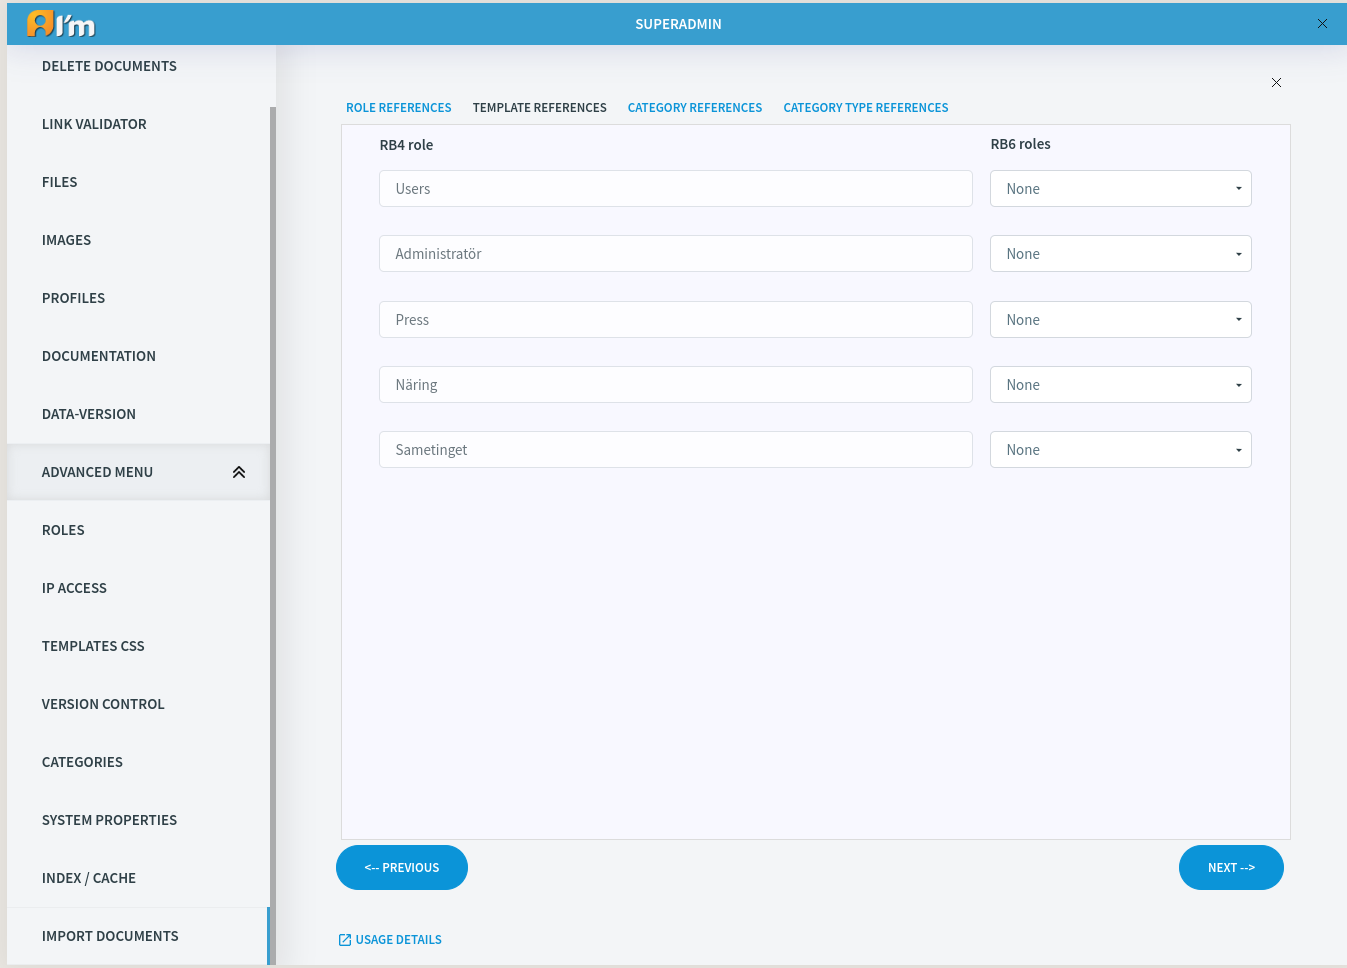
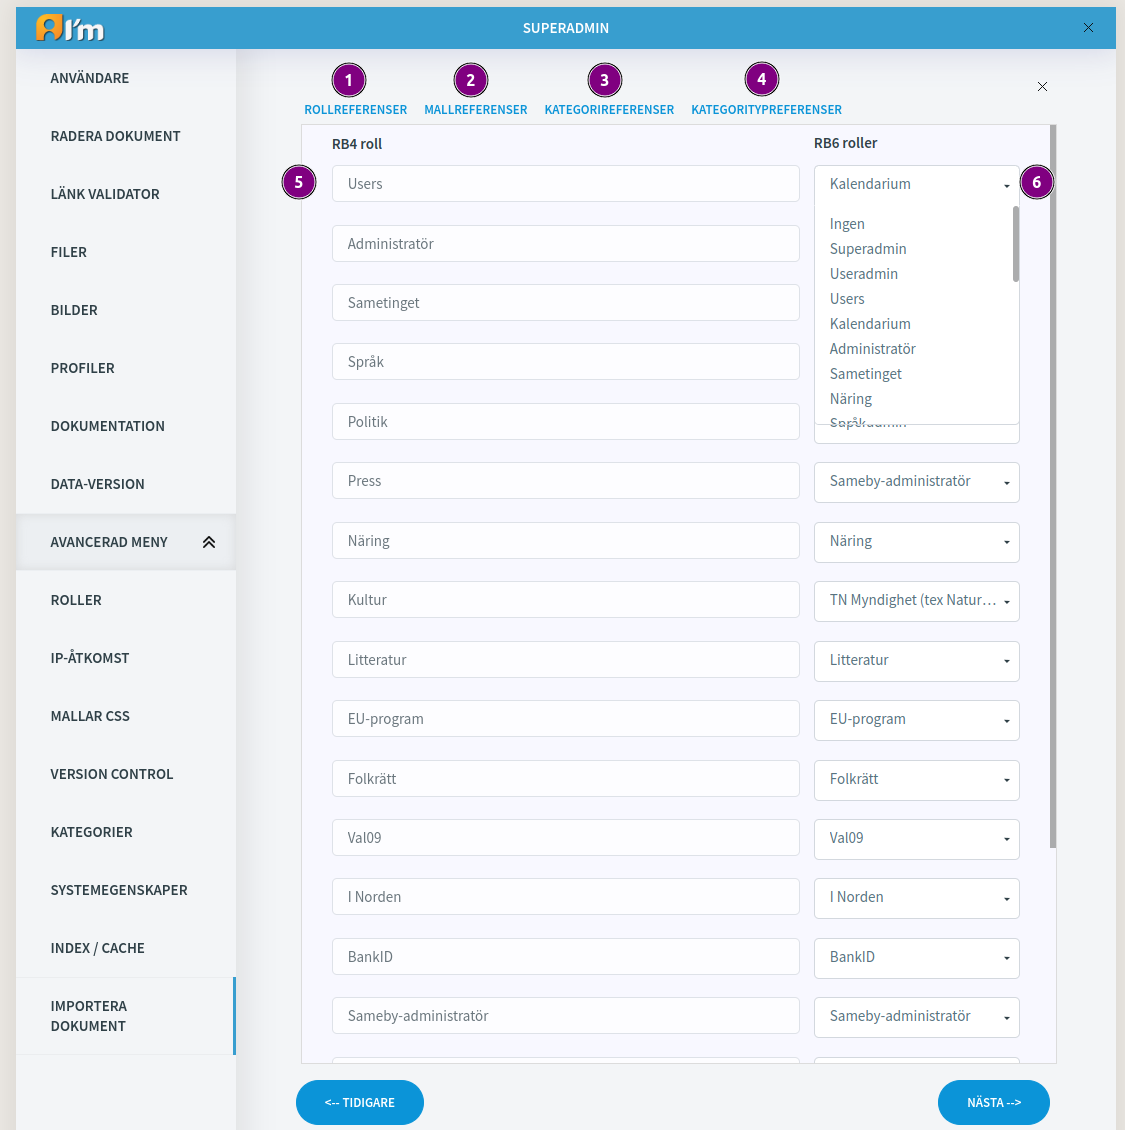
Issue IMCMS-730 Update documentation: - update docs for import/export feature

diff --git a/docs/user-documentation/admin-settings/import.rst b/docs/user-documentation/admin-settings/import.rst
@@ -37,22 +37,34 @@ Export Documents
 
 **3. Here specify range of documents(start id and last id). It is better to use small ranges because large ones will be longer to wait.**
 
-.. image:: _static/import/export-document-page.png
+.. image:: _static/import/range-input.png
+
+1 - *Change input type* - change the way you can list documents. Range or manually typed exact documents. 
+
+2 - *Range* - where you define start and end ids.
+
+3 - *List button* - press it and list documents withing the range.
+
+.. image:: _static/import/list-input.png
+
+1 - *Document id input* - write document id and press add button to add it. Also it supports pasting in space separated format(1001 1002 1003 ...) 
+
+2 - *Add button* - add documetn id to list from input.
+
+3 - *Remove button* - remove one or several selected document ids from list. (use ctrl to select several)
+
+4 - *List* - list with document ids.
 
 **4. Export documents manager overview.**
 
-.. image:: _static/import/export-doc-page-explanation-1.png
+.. image:: _static/import/overview.png
 
-.. image:: _static/import/export-doc-page-explanation-2.png
-
-1 - *Hoppa över exporterat( Skip exported)* – always turned on. When turned on skips already exported documents from export.
-
-2 - Each document can be included/excluded from export. Checked -> export.
+1 - Each document can be included/excluded from export. Checked -> export.
 This value saved in database so every user that has access to this page will see it.
 
 .. note:: Document will not be included in export if it is not published.
 
-3 - Indicates document export status:
+2 - Indicates document export status:
 
 - |successExport| - means document successfully exported.
 - |excludedExport| - means document has been excluded from export and was skipped during export.
@@ -60,9 +72,13 @@ This value saved in database so every user that has access to this page will see
 
 .. note:: If document failed to export so during the next export system will try to export it again if it is included in export.
 
-4 - Document status.
+3 - *Hoppa över exporterat(Skip exported) button* – always turned on. When turned on skips already exported documents from export.
 
-5 - *Exportera(Export)* button. Click and system will export document within range.
+4 - *Exportera bilder(Export images) button*. Checked means export images with documents.
+
+5 - *Exportera filer(Export files) button*. Checked means export files with documents.
+
+6 - *Exportera(Export)* button. Click and system will export documents.
 
 
 **5. Indicates that system exports documents. Wait until page reload and show summary page.**
@@ -95,16 +111,43 @@ Upload documents section
 
 .. image:: _static/import/upload-documents-section.png
 
-- **Upload documents button** used to upload .zip.
-- **Dotted area** supports drag & drop.
+- *Upload documents button* used to upload .zip.
+- *Dotted area* supports drag & drop.
 
 **********************
 Edit documents section
 **********************
 
-.. image:: _static/import/edit-documents-section.png
+.. image:: _static/import/list-input-rb6.png
 
-|list-documents| - used to show basic import documents info within range.
+1 - *List documents*.List selected documents.
+
+2 - *Add*. Add document to list from input.
+
+3 - *Remove*. Remove one or several selected documents from list.
+
+4 - *List*. List with document ids.
+
+5 - *Document id input*. Supports pasting with space separated document ids.(1001 1002 1003 ...)
+
+6 - *Document status*. Changeable. On this tab you can change document status.
+
+.. note:: Import statuses:
+
+- **IMPORTED** – means document imported and can be updated using UPDATE statuses.
+- **UPDATE** – document will be updated from id.json file. You can import it as many times as you want.
+- **SKIP** – document will be skipped during import.
+- **FAILED** – document import failed. Check logs for more info.
+
+.. image:: _static/import/range-input-rb6.png
+
+1 - *Range documents*. Document ids range. Define start and end. Both could be empty -> list all available documents.
+
+2 - *Skip imported*. Don`t show imported documents.
+
+3 - *Skip skipped*. Don`t show skipped documents.
+
+4 - *Document status*.
 
 ******************************
 Edit import references section
@@ -112,31 +155,43 @@ Edit import references section
 
 .. image:: _static/import/edit-import-references-section.png
 
-************************
-Import documents section
-************************
+1 - *Role references*. Section with local and import roles.
 
-.. image:: _static/import/import-documents-section.png
+2 - *Template references*. Section with local and import templates
 
-|import-documents| - used to import documents within range.
+3 - *Categories references*. Section wtih local and import categories.
+
+4 - *Category types references*. Section wtih local and import category types.
+
+5 - *Import entity reference(from rb4)*. Unchangeable.
+
+6 - *Local entity reference(from current rb6 project)*. Select proper local(rb6) to import(rb4) reference.
 
 .. note::
+    Defined references are in use during import. e.g. rb4 role sametinget has reference to rb6 role sametinget-rb6. It means system automaticaly assign role sametinget-rb6 if find find roles sametinget-rb4. It works with all other references. 
+
     If no category or category type specified – then new one with import name will be created in system.
 
     If no role specified then new one will be created.
 
     If no template specified then default one will be used. User has to upload template by himself.
 
-|idRange| - user can specify id range. Can be empty for list button(e.g. ...-…, 1-…, ...-999). Cannot be empty for import button. User has to specify range.
 
-|filter| - used to filter basic import documents by status.
+************************
+Import documents section
+************************
 
-Import statuses:
+.. image:: _static/import/summary-rb6.png
 
-- **IMPORTED** – means document imported and can be updated using UPDATE statuses.
-- **UPDATE** – document will be updated from id.json file. You can import it many as many times as you want.
-- **SKIP** – document will be skipped during import.
-- **FAILED** – document importation failed. Check logs for more info.
+1 - *Import documents*. Import defined documents.
+
+2 - *Auto import menus*. Unchecked by default. During documents import system will try to import menus. If this unchecked then system import only documents in menus that are already imported. If document is not imported yet system skip it. If this checked system will try to recusively import documents from menu. 
+
+e.g. document 1001 has menu with documents [1002, 1003, 1004]. 1002, 1003 - imported. 1004 - not imported.
+
+*Unchecked*.  System will add 1002, 1003 to menu because they are already imported. 1004 will be skipped and this document will not be in menu.
+
+*Checked*. Systeam will add 1002, 1003 because they are already imported. And system will try to import 1004 document. On success it will be added to menu. 
 
 *************
 Control alias
@@ -146,4 +201,4 @@ Control alias
 
 |remove-alias| - removes the aliases within a given range (/import/1001 - /import/3400) for pages having an alias starting with /import.
 
-|replace-alias|-  looks in all menus and text fields and replaces all links that has the prefix /import/ to the metaid on the new site. I.e. if the document 1234 is exported and the new page on RB6 is 1100, then all links that goes to /import/1234 should be replaced to /1100.
+|replace-alias|-  looks in all menus and text fields and replaces all links that has the prefix /import/ to the metaid on the new site. I.e. if the document 1234 is exported and the new page on RB6 is 1100, then all links that go to /import/1234 will be replaced to /1100.
